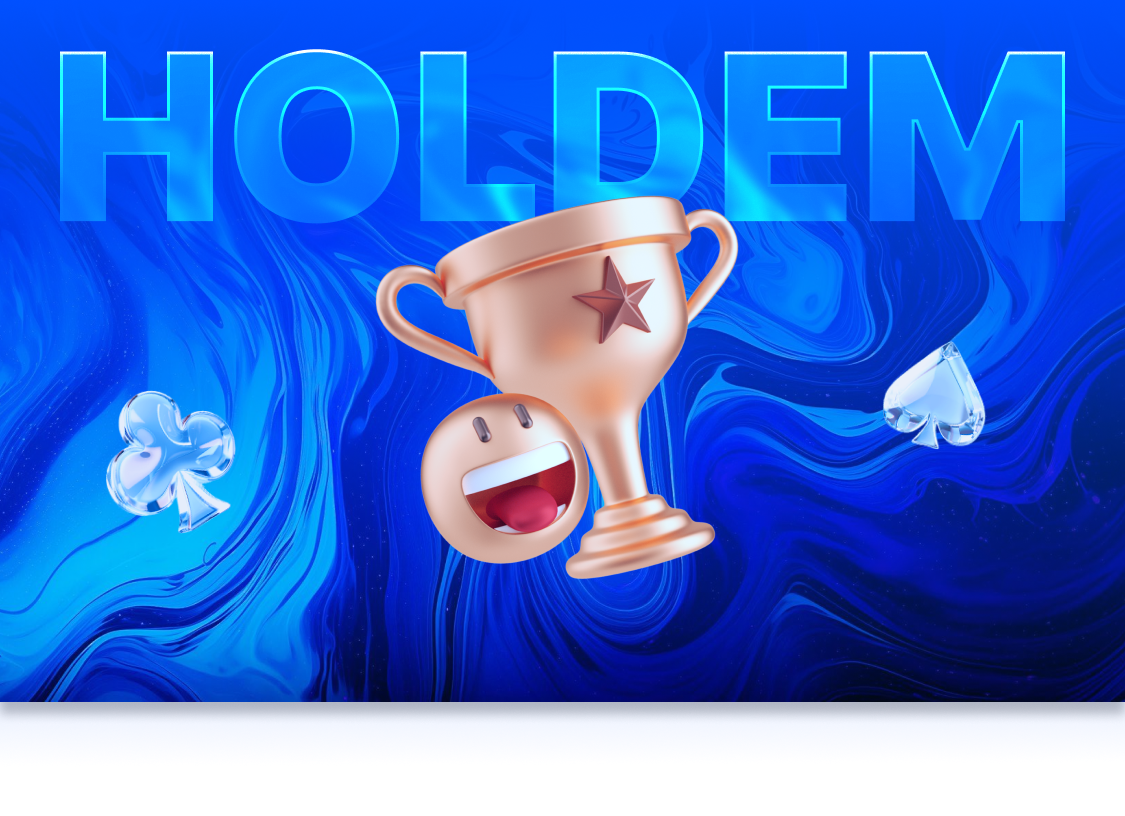
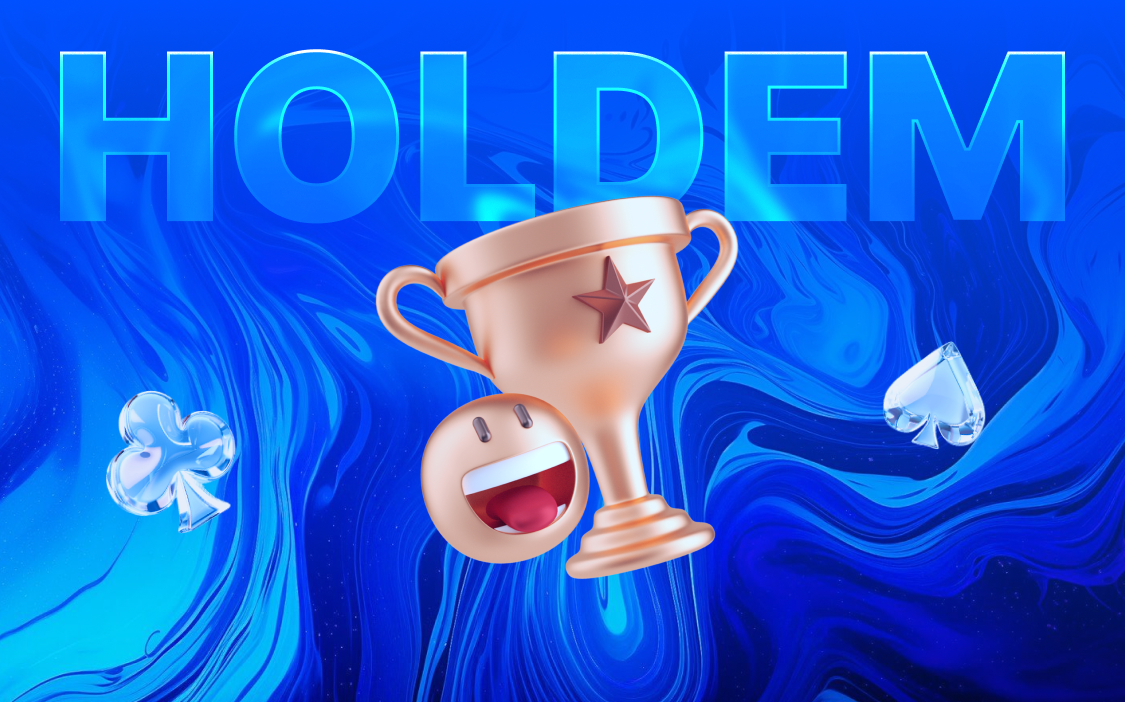
fix: 优化

diff --git a/lib/page/feed_list/feed_list_screen.dart b/lib/page/feed_list/feed_list_screen.dart
@@ -96,12 +96,12 @@ class _FeedListScreenState extends State<FeedListScreen> with SingleTickerProvid
         Column(
           crossAxisAlignment: CrossAxisAlignment.stretch,
           children: [
-            SingleChildScrollView(
-              scrollDirection: Axis.horizontal,
-              child: Container(
-                height: 54.w,
-                color: '#f7f8fc'.hexColor,
-                alignment: Alignment.bottomLeft,
+            Container(
+              height: 54.w,
+              color: '#f7f8fc'.hexColor,
+              alignment: Alignment.centerLeft,
+              child: SingleChildScrollView(
+                scrollDirection: Axis.horizontal,
                 child: Row(
                   children: [
                     SizedBox(
@@ -122,7 +122,7 @@ class _FeedListScreenState extends State<FeedListScreen> with SingleTickerProvid
                       child: Container(
                         height: 30.w,
                         padding: EdgeInsets.symmetric(horizontal: 17.w),
-                        margin: EdgeInsets.only(right: 12.w, bottom: 12.w),
+                        margin: EdgeInsets.only(right: 12.w),
                         alignment: Alignment.center,
                         decoration: selIndex != 0
                             ? ShapeDecoration(
@@ -167,7 +167,7 @@ class _FeedListScreenState extends State<FeedListScreen> with SingleTickerProvid
                         child: Container(
                           height: 30.w,
                           padding: EdgeInsets.symmetric(horizontal: 17.w),
-                          margin: EdgeInsets.only(right: 12.w, bottom: 12.w),
+                          margin: EdgeInsets.only(right: 12.w),
                           alignment: Alignment.center,
                           decoration: selIndex != index + 1
                               ? ShapeDecoration(
@@ -203,125 +203,124 @@ class _FeedListScreenState extends State<FeedListScreen> with SingleTickerProvid
             ),
             Expanded(
               child: Container(
-                decoration: BoxDecoration(
-                  borderRadius: BorderRadius.circular(12.r),
-                  color: Colors.white,
-                ),
-                child: Column(
-                  children: [
-                    Align(
-                      alignment: Alignment.centerRight,
-                      child: SuperTooltip(
-                        showBarrier: true,
-                        controller: _tipController,
-                        popupDirection: TooltipDirection.down,
-                        backgroundColor: Colors.transparent,
-                        hasShadow: false,
-                        borderColor: Colors.transparent,
-                        arrowLength: 0,
-                        arrowTipDistance: 21.w,
-                        bubbleDimensions: EdgeInsets.zero,
-                        touchThroughAreaShape: ClipAreaShape.rectangle,
-                        touchThroughAreaCornerRadius: 10,
-                        minimumOutsideMargin: 0,
-                        barrierColor: Colors.transparent,
-                        right: 18.w,
-                        content: Container(
-                          width: 72.w,
-                          decoration: BoxDecoration(
-                            color: Colors.white,
-                            borderRadius: BorderRadius.all(Radius.circular(6.r)),
-                            boxShadow: [
-                              BoxShadow(
-                                color: Colors.black.withOpacity(0.1),
-                                blurRadius: 10.r,
-                                offset: Offset(0, 5.w),
-                              ),
-                              BoxShadow(
-                                color: const Color(0xfffafcff),
-                                blurRadius: 1.r,
-                                spreadRadius: -1.r,
-                                offset: Offset(0, -1.w),
-                              ),
-                            ],
-                          ),
-                          child: ListView.separated(
-                            shrinkWrap: true,
-                            itemCount: filters.length,
-                            padding: EdgeInsets.zero,
-                            itemBuilder: (BuildContext context, int index) {
-                              final item = filters[index];
-                              return GestureDetector(
-                                onTap: () {
-                                  _tipController.hideTooltip();
-                                  if (filterIndex != index) {
-                                    filterIndex = index;
-                                    String order = filterIndex == 0
-                                        ? 'time'
-                                        : filterIndex == 1
-                                        ? 'comment'
-                                        : 'like';
-                                    _pageKey.currentState?.refreshData(0, order);
-                                  }
-                                },
-                                child: Container(
-                                  height: 41.5.w,
-                                  alignment: Alignment.center,
-                                  child: Text(
-                                    item,
-                                    style: TextStyle(
-                                      color: '#333333'.hexColor,
-                                      fontSize: 12.sp,
-                                    ),
-                                  ),
+                  decoration: BoxDecoration(
+                    borderRadius: BorderRadius.circular(12.r),
+                    color: Colors.white,
+                  ),
+                  child: Column(
+                    children: [
+                      Align(
+                        alignment: Alignment.centerRight,
+                        child: SuperTooltip(
+                          showBarrier: true,
+                          controller: _tipController,
+                          popupDirection: TooltipDirection.down,
+                          backgroundColor: Colors.transparent,
+                          hasShadow: false,
+                          borderColor: Colors.transparent,
+                          arrowLength: 0,
+                          arrowTipDistance: 21.w,
+                          bubbleDimensions: EdgeInsets.zero,
+                          touchThroughAreaShape: ClipAreaShape.rectangle,
+                          touchThroughAreaCornerRadius: 10,
+                          minimumOutsideMargin: 0,
+                          barrierColor: Colors.transparent,
+                          right: 18.w,
+                          content: Container(
+                            width: 72.w,
+                            decoration: BoxDecoration(
+                              color: Colors.white,
+                              borderRadius: BorderRadius.all(Radius.circular(6.r)),
+                              boxShadow: [
+                                BoxShadow(
+                                  color: Colors.black.withOpacity(0.1),
+                                  blurRadius: 10.r,
+                                  offset: Offset(0, 5.w),
                                 ),
-                              );
-                            },
-                            separatorBuilder: (_, __) => Container(
-                              margin: EdgeInsets.symmetric(horizontal: 12.w),
-                              color: '#333333'.hexColor.withOpacity(0.1),
-                              height: 1.w,
-                            ),
-                          ),
-                        ),
-                        child: GestureDetector(
-                          onTap: () {
-                            _tipController.showTooltip();
-                          },
-                          child: Padding(
-                            padding: EdgeInsets.symmetric(horizontal: 16.w, vertical: 12.w),
-                            child: Row(
-                              mainAxisSize: MainAxisSize.min,
-                              children: [
-                                Text(
-                                  filters[filterIndex],
-                                  style: TextStyle(
-                                    fontSize: 12.sp,
-                                    color: '#333333'.hexColor.withOpacity(0.8),
-                                    fontWeight: FontWeight.w600,
-                                  ),
-                                ),
-                                Icon(
-                                  Icons.arrow_drop_down_outlined,
-                                  color: '#333333'.hexColor.withOpacity(0.8),
+                                BoxShadow(
+                                  color: const Color(0xfffafcff),
+                                  blurRadius: 1.r,
+                                  spreadRadius: -1.r,
+                                  offset: Offset(0, -1.w),
                                 ),
                               ],
+                            ),
+                            child: ListView.separated(
+                              shrinkWrap: true,
+                              itemCount: filters.length,
+                              padding: EdgeInsets.zero,
+                              itemBuilder: (BuildContext context, int index) {
+                                final item = filters[index];
+                                return GestureDetector(
+                                  onTap: () {
+                                    _tipController.hideTooltip();
+                                    if (filterIndex != index) {
+                                      filterIndex = index;
+                                      String order = filterIndex == 0
+                                          ? 'time'
+                                          : filterIndex == 1
+                                              ? 'comment'
+                                              : 'like';
+                                      _pageKey.currentState?.refreshData(0, order);
+                                    }
+                                  },
+                                  child: Container(
+                                    height: 41.5.w,
+                                    alignment: Alignment.center,
+                                    child: Text(
+                                      item,
+                                      style: TextStyle(
+                                        color: '#333333'.hexColor,
+                                        fontSize: 12.sp,
+                                      ),
+                                    ),
+                                  ),
+                                );
+                              },
+                              separatorBuilder: (_, __) => Container(
+                                margin: EdgeInsets.symmetric(horizontal: 12.w),
+                                color: '#333333'.hexColor.withOpacity(0.1),
+                                height: 1.w,
+                              ),
+                            ),
+                          ),
+                          child: GestureDetector(
+                            onTap: () {
+                              _tipController.showTooltip();
+                            },
+                            child: Padding(
+                              padding: EdgeInsets.symmetric(horizontal: 16.w, vertical: 12.w),
+                              child: Row(
+                                mainAxisSize: MainAxisSize.min,
+                                children: [
+                                  Text(
+                                    filters[filterIndex],
+                                    style: TextStyle(
+                                      fontSize: 12.sp,
+                                      color: '#333333'.hexColor.withOpacity(0.8),
+                                      fontWeight: FontWeight.w600,
+                                    ),
+                                  ),
+                                  Icon(
+                                    Icons.arrow_drop_down_outlined,
+                                    color: '#333333'.hexColor.withOpacity(0.8),
+                                  ),
+                                ],
+                              ),
                             ),
                           ),
                         ),
                       ),
-                    ),
-                    SizedBox(
-                      height: 12.w,
-                    ),
-                    Expanded(
-                        child: FeedListChildView(
-                          tabId: tabId,
-                          key: _pageKey,
-                        )),
-                  ],
-                )
-              ),
+                      SizedBox(
+                        height: 12.w,
+                      ),
+                      Expanded(
+                          child: FeedListChildView(
+                        tabId: tabId,
+                        key: _pageKey,
+                      )),
+                    ],
+                  )),
             )
           ],
         ),

diff --git a/lib/gen/assets.gen.dart b/lib/gen/assets.gen.dart
@@ -39,9 +39,6 @@ class $AssetsImagesGen {
   AssetGenImage get backWhite =>
       const AssetGenImage('assets/images/back_white.png');
 
-  /// File path: assets/images/banner.png
-  AssetGenImage get banner => const AssetGenImage('assets/images/banner.png');
-
   /// File path: assets/images/book_banner.png
   AssetGenImage get bookBanner =>
       const AssetGenImage('assets/images/book_banner.png');
@@ -110,6 +107,10 @@ class $AssetsImagesGen {
   /// File path: assets/images/course_card_bg.png
   AssetGenImage get courseCardBg =>
       const AssetGenImage('assets/images/course_card_bg.png');
+
+  /// File path: assets/images/courser_banner.png
+  AssetGenImage get courserBanner =>
+      const AssetGenImage('assets/images/courser_banner.png');
 
   /// File path: assets/images/default_avatar.png
   AssetGenImage get defaultAvatar =>
@@ -519,6 +520,10 @@ class $AssetsImagesGen {
   /// File path: assets/images/video.png
   AssetGenImage get video => const AssetGenImage('assets/images/video.png');
 
+  /// File path: assets/images/video_banner.png
+  AssetGenImage get videoBanner =>
+      const AssetGenImage('assets/images/video_banner.png');
+
   /// File path: assets/images/zan.png
   AssetGenImage get zan => const AssetGenImage('assets/images/zan.png');
 
@@ -532,7 +537,6 @@ class $AssetsImagesGen {
         arrowRight,
         back,
         backWhite,
-        banner,
         bookBanner,
         changeAvatar,
         clear,
@@ -551,6 +555,7 @@ class $AssetsImagesGen {
         course3,
         courseBanner,
         courseCardBg,
+        courserBanner,
         defaultAvatar,
         delete,
         delete2,
@@ -662,6 +667,7 @@ class $AssetsImagesGen {
         titleLogo,
         versionUpdate,
         video,
+        videoBanner,
         zan
       ];
 }

diff --git a/lib/page/home/home_screen.dart b/lib/page/home/home_screen.dart
@@ -102,7 +102,7 @@ class _HomeScreenState extends State<HomeScreen> with AutomaticKeepAliveClientMi
                   children: <Widget>[
                     if (controller.banners.isNotEmpty)
                       SizedBox(
-                        height: 272.w,
+                        height: 234.w,
                         child: Stack(
                           children: [
                             Builder(
@@ -115,7 +115,7 @@ class _HomeScreenState extends State<HomeScreen> with AutomaticKeepAliveClientMi
                                   );
                                 }
                                 return SizedBox(
-                                  height: 272.w,
+                                  height: 234.w,
                                   child: Swiper(
                                     itemCount: controller.banners.length,
                                     itemBuilder: (BuildContext context, int index) {

diff --git a/lib/page/video_list/video_list_screen.dart b/lib/page/video_list/video_list_screen.dart
@@ -67,9 +67,9 @@ class _VideoListScreenState extends State<VideoListScreen> {
           child: Stack(
             children: [
               SizedBox(
-                height: 272.w,
+                height: 234.w,
                 child: Image.asset(
-                  Assets.images.banner.path,
+                  Assets.images.videoBanner.path,
                   fit: BoxFit.cover,
                 ),
               ),

diff --git a/lib/page/course/course_screen.dart b/lib/page/course/course_screen.dart
@@ -64,7 +64,7 @@ class CourseScreen extends StatelessWidget {
                 child: Stack(
                   children: <Widget>[
                     Assets.images.courseBanner.image(
-                      height: 272.w,
+                      height: 234.w,
                     ),
                     NestedScrollView(
                       controller: controller.scrollController,

diff --git a/lib/page/bool_list/book_list_screen.dart b/lib/page/bool_list/book_list_screen.dart
@@ -66,7 +66,7 @@ Widget _buildContent(BookListController controller) {
           child: Stack(
         children: [
           SizedBox(
-            height: 272.w,
+            height: 234.w,
             child: Image.asset(
               Assets.images.bookBanner.path,
               fit: BoxFit.cover,
